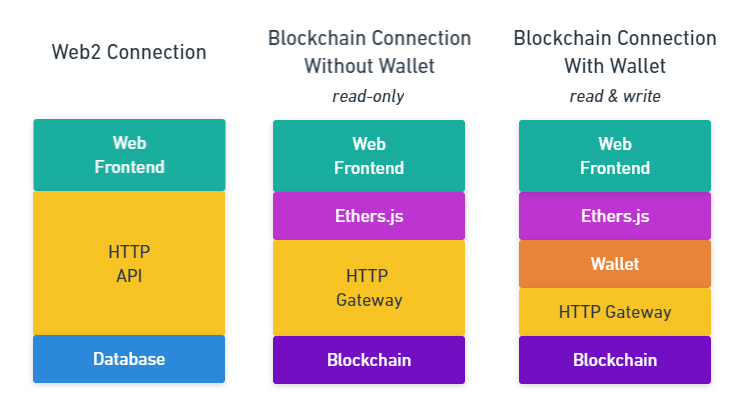
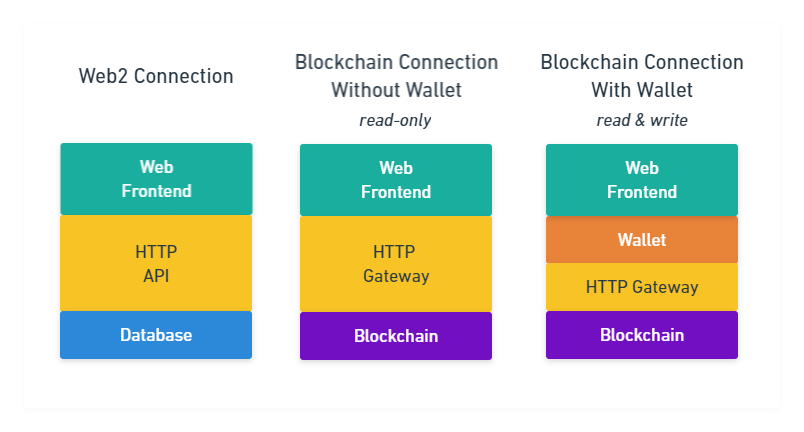
Improve editor and re-write first lesson.

diff --git a/00-connect-to-blockchain.html b/00-connect-to-blockchain.html
@@ -6,48 +6,164 @@
 
 <title>00 Connect to the Blockchain - Web3 From Zero</title>
 
-<h1>00 Connect to the Blockchain</h1>
+<h1>00 - Connect to the Blockchain</h1>
 
 <p>
-  The ethers.js library is used to connect to the Ethereum blockchain. It can
-  connect directly via an HTTP gateway, or via a Ethereum wallet. In the first
-  lessons we will use the the direct method.
+This tutorial will start from zero, which means that the first lessons don't require you to
+install anything. No wallet, no dev environment; you just need your browser and basic JavaScript
+skills.
+</p>
+
+<blockquote>
+<b>Note:</b> If you don't have JavaScript skills yet, because you're just started your developer 
+journey, or because you come from a different programming language, I'd recommend 
+<a href="https://www.freecodecamp.org/learn">FreeCodeCamp</a>. They offer hundreds of hours of 
+JavaScript courses for beginners for free!
+</blockquote>
+
+<h2>Connection Modes</h2>
+
+<p>
+Coming from Web2, you probably know how to load your data from storage into a frontend. You
+connect to some kind of backend via an HTTP API, and this API, in turn, loads data from storage
+like a database.
+</p>
+
+<p>
+The same is true for Web3. If you don't have a crypto wallet, you need some kind of HTTP API to
+connect to a blockchain network. This API is called a gateway. It accepts requests from a browser
+via HTTP and routes them to a blockchain network. This connection mode can only be used to read data
+from a blockchain.
+</p>
+
+<p>
+If you have a crypto wallet, you can make it accessible with a browser extension for a frontend.
+In the case of Ethereum, such an extension will inject a global <code>ethereum</code> object into 
+your frontend that can be used to interact with the wallet. This connection mode can be used to 
+read and write data, like sending transactions.
+</p>
+
+<p>
+If you have a wallet installed and the extension set up, it will connect to the blockchain network 
+via an HTTP gateway, so the browser doesn't have to interact with the gateway directly.
+</p>
+
+<p>
+In Figure 1, you can see the different types of connections—Web2 and Web3 with and without a wallet.
 </p>
 
 <figure>
   <img src="images/blockchain-connection.png" />
   <figcaption>
-    Figure 1: Blockchain connection with and without a wallet
+    Figure 1: Web2 and Web3 backends
   </figcaption>
 </figure>
 
-<pre>
-import {ethers} from "//unpkg.com/ethers@5.5.1/dist/ethers.esm.min.js"
-</pre>
+<p>
+In this tutorial, we will start with the read-only connection mode. You don't have to
+install anything for the first few lessons!
+</p>
+
+<h2>Using Ethers.js</h2>
 
 <p>
-The default provider can connect to the chain in multiple ways. It tries to
-use a global ethereum object, injected by a wallet extension, if this object
-doesn't exists it uses a fallback HTTP gateway. This gateway is publicly
-accessible, but heavily rate limited.
+<a href="https://docs.ethers.io/v5/">Ethers.js</a> is a library that helps with connecting to the
+Ethereum network. When using Ethers.js, we don't have to care if we connect directly via an HTTP
+gateway or use a wallet extension. After a connection is established, we can call the same
+functions.
+</p>
+
+<p>Figure 2 shows how Ethers.js is layered between your frontend and the Ethereum network.</p>
+
+<figure>
+  <img src="images/blockchain-connection-ethersjs.png" />
+  <figcaption>
+    Figure 2: Blockchain connection with Ethers.js
+  </figcaption>
+</figure>
+
+<p>
+Ethers.js comes in the form of an ES-module on the NPM package registry. This means, we can
+<code>import</code> it directly in the browser from <a href="https://unpkg.com/">the Unpkg CDN</a>.
+</p>
+
+<p>Listing 1 shows how you <code>import</code> the <code>ethers</code> package into your code.</p>
+
+<pre>import {ethers} from "//unpkg.com/ethers@5.5.1/dist/ethers.esm.min.js"</pre>
+<cite>Listing 1: Importing the Ethers.js package</cite> 
+
+<h2>Connecting to the Ethereum Network</h2>
+
+<p>
+To connect to the Ethereum network, you have to create a provider. Providers are the abstraction
+Ethers.js uses to normalize access via wallet and HTTP gateway.
+</p>
+
+<p>
+You can create such an provider by calling the <code>getDefaultProvider</code> method of the
+<code>ethers</code> object we imported before. 
+</p>
+
+<blockquote>
+<b>Note:</b> This tutorial features an interactive editor. Here you can write JavaScript code and execute it with
+the press of a button. The Ethers.js library is imported for you and you can use <code>await</code>
+for asynchronous requests. It also has a <code>print</code> function you can use for debugging.
+</blockquote>
+
+<p>
+The first example is already written to show you how things work. Just press the <b>Execute</b>
+button and check the result.
 </p>
 
 <code-editor>
-  // Editable!
 const provider = ethers.getDefaultProvider()
 print(provider)
 </code-editor>
 
 <p>
-To check if the connection works, we will read a block from the chain add
-display the block's data in a pre-formatted HTML element.
+Let's try it yourself!
+</p>
+
+<p>
+To read data from the Etherum network, you can call the <code>getBlock</code> method of the
+<code>ethers</code> object. It returns a promise that resolves to an object that contains the
+block's data, so you need to <code>await</code> it. After you got the block, you can display its 
+content with the <code>print</code> function.
 </p>
 
 <code-editor>
-// Editable!
 const provider = ethers.getDefaultProvider()
-const block = await provider.getBlock(100004)
+// Write your code here!
+<p>
+const block = await provider.getBlock()
 print(block)
+</p>
 </code-editor>
+
+<p>
+If everything went correctly, we see the block data in the results. This is all very blockchain-y 
+information that doesn't tell us anything interesting yet. At least, we see that the connection 
+worked and something came back!
+</p>
+
+<p>
+The Ethers.js library comes pre-configured with a public HTTP gateway that can be used for free to
+read data from the Ethereum blockchain. This gateway has a request frequency limit, so it can 
+happen that you don't get a response if you send too many requests. But for this 
+tutorial, it should be enough.
+</p>
+
+<h2>Conclusion</h2>
+
+<p>
+We learned the differences between a Web2 and a Web3 backend in this lesson. How both rely on HTTP
+APIs. These APIs are called gateways in Web3 because they are the gateway into the blockchain
+network.
+</p>
+
+<p>
+We also learned how to connect to such a blockchain network with the help of the Ethers.js library.
+We didn't have to install anything, just call a few methods and see what happens.
+</p>
 
 <a href="01-read-address-data.html">01 Reading Address Data >></a>

diff --git a/boilerplate/editor.js b/boilerplate/editor.js
@@ -6,19 +6,46 @@ customElements.define(
   "code-editor",
   class CodeEditor extends HTMLElement {
     connectedCallback() {
+      const hintElement = this.querySelector("p")
+      let codeHint = null
+      if (hintElement) {
+        codeHint = hintElement.innerHTML.trim()
+        this.removeChild(hintElement)
+      }
+
       const code = this.innerHTML.trim()
 
       this.innerHTML = `
       <pre><code data-editor-input contenteditable spellcheck="false">${code}</code></pre>
-      <button>Execute</button>
+      <div>
+        <button data-editor-execute>Execute!</button>
+        <button data-editor-hint ${!codeHint ? "disabled" : ""}>Hint?</button>
+      </div>
       <b>Result</b>
       <pre data-editor-result></pre>`
 
-      this.querySelector("button").addEventListener("click", this.executeCode)
+      this.querySelector("[data-editor-execute]").addEventListener(
+        "click",
+        this.executeCode
+      )
+
+      if (hintElement) {
+        let hinted = false
+        this.querySelector("[data-editor-hint]").addEventListener(
+          "click",
+          (e) => {
+            if (hinted) return
+            e.target.parentNode.parentNode.querySelector(
+              "[data-editor-input]"
+            ).innerHTML += "\n" + codeHint
+            hinted = true
+          }
+        )
+      }
     }
 
     executeCode(e) {
-      const parent = e.target.parentNode
+      const parent = e.target.parentNode.parentNode
       const code = parent.querySelector("[data-editor-input]").innerHTML.trim()
       const outputElement = parent.querySelector("[data-editor-result]")
 

diff --git a/boilerplate/style.css b/boilerplate/style.css
@@ -1,4 +1,4 @@
-@import url("//unpkg.com/sakura.css/css/sakura-vader.css");
+@import url("//unpkg.com/sakura.css/css/sakura-ink.css");
 @import url("//unpkg.com/@highlightjs/cdn-assets@11.3.1/styles/a11y-dark.min.css");
 
 body {
@@ -22,12 +22,22 @@ figure > img {
   margin-bottom: 0.5rem;
 }
 
-button {
-  width: 100%;
+[data-editor-execute] {
+  float: left;
+  width: 85%;
   margin-top: 0;
   font-size: large;
   font-weight: bold;
   height: 50px;
+}
+[data-editor-hint] {
+  width: 15%;
+  margin-top: 0;
+  font-size: large;
+  font-weight: bold;
+  height: 50px;
+  background-color: purple;
+  border-color: purple;
 }
 
 pre {
@@ -37,6 +47,6 @@ pre {
 }
 
 pre > code {
-  color: lightgray;
+  color: black;
   font-size: 1em;
 }
